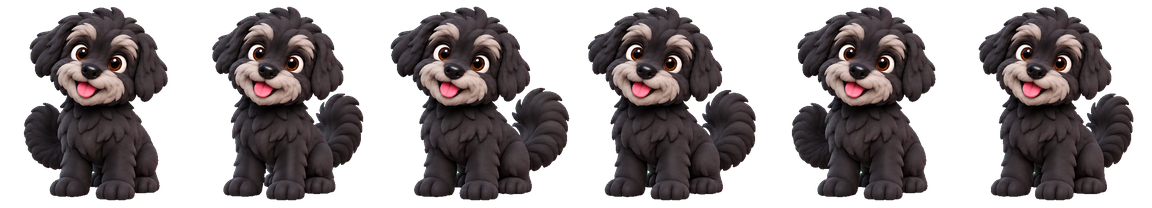
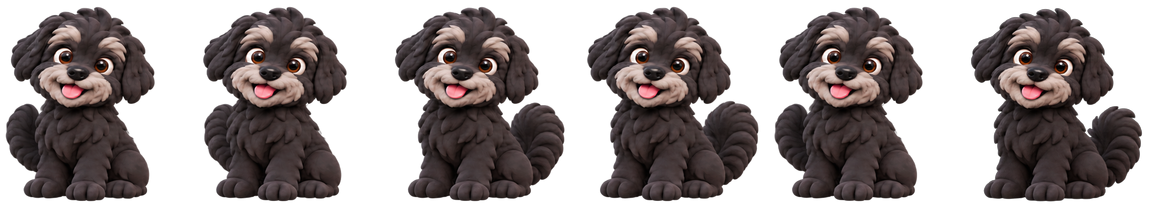
feat: import Lucia strips that hand back to idle cleanly
Bark, entrance wag, twirl and the newspaper enter/loop/exit strips are
regenerated at the fixed camera. Every cell that touches idle is now a
pixel copy of idle cell 0, and the newspaper handoffs match exactly, so
she no longer widens after a woof. The endpoint test is no longer an
expected failure.

Claude-Session: https://claude.ai/code/session_01Df2drsftGF2QsPw37q8guQ

diff --git a/claria-desktop-frontend/src/lib/luciaArtwork.test.ts b/claria-desktop-frontend/src/lib/luciaArtwork.test.ts
@@ -296,10 +296,7 @@ describe("Lucia sprite scale acceptance (the regeneration brief)", () => {
     expect(problems).toEqual([]);
   });
 
-  // KNOWN DEFECT: bark, entrance wag, twirl and the newspaper strips were drawn against the old
-  // idle, so she pops ~13px wider when one hands back to idle. `it.fails` documents it until
-  // the endpoint brief's strips land; then delete `.fails`.
-  it.fails("starts and ends every idle-adjacent strip on idle cell 0", () => {
+  it("starts and ends every idle-adjacent strip on idle cell 0", () => {
     const idle = opaqueBox(rgbaPixels(manifest.core_image), 0, 0);
     const touches: Array<[LuciaClipName, "first" | "last" | "both"]> = [
       ["bark", "last"], ["tailwag", "last"], ["twirl", "both"], ["reading-enter", "first"], ["reading-exit", "last"],
